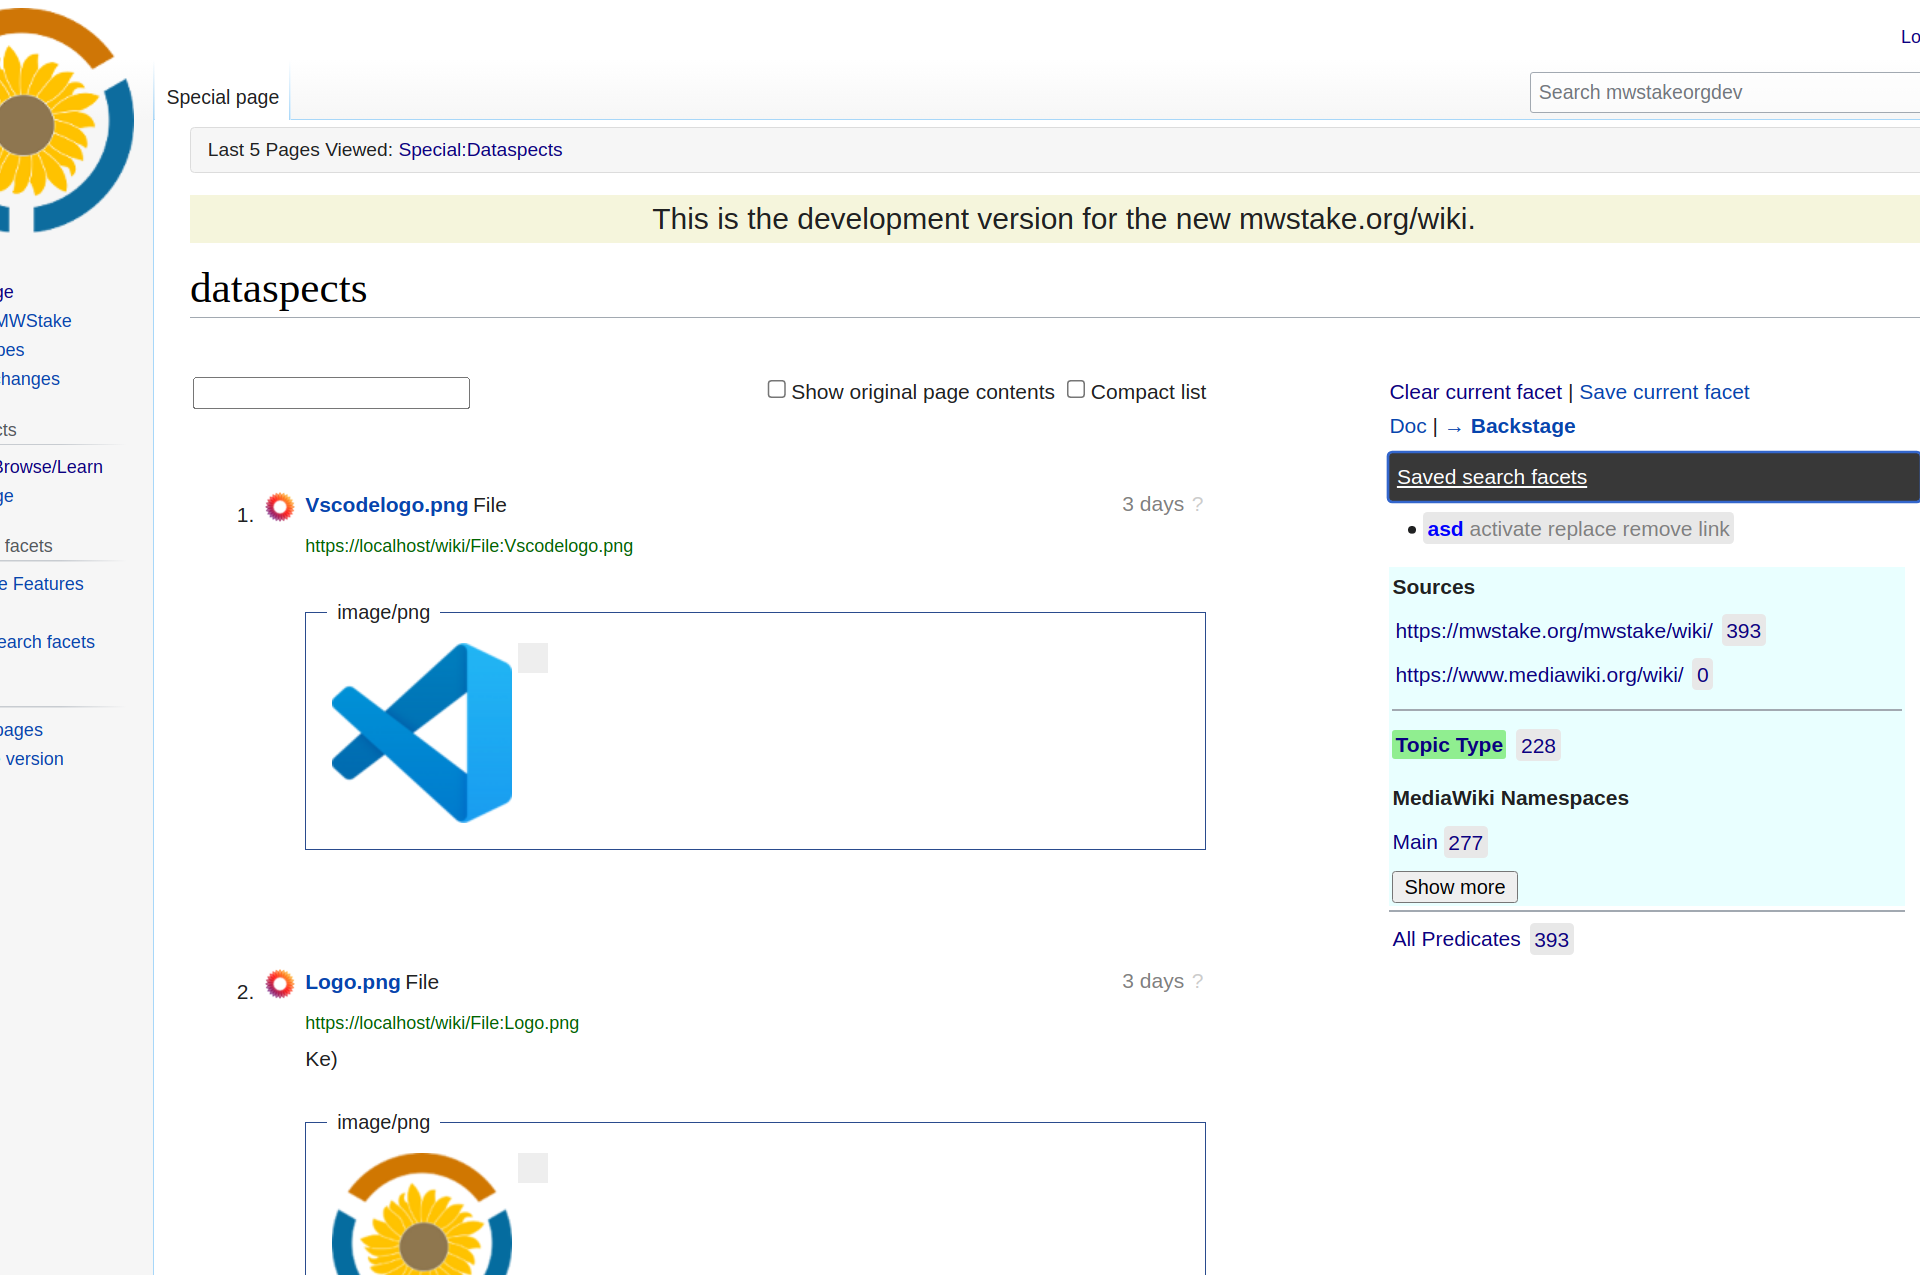
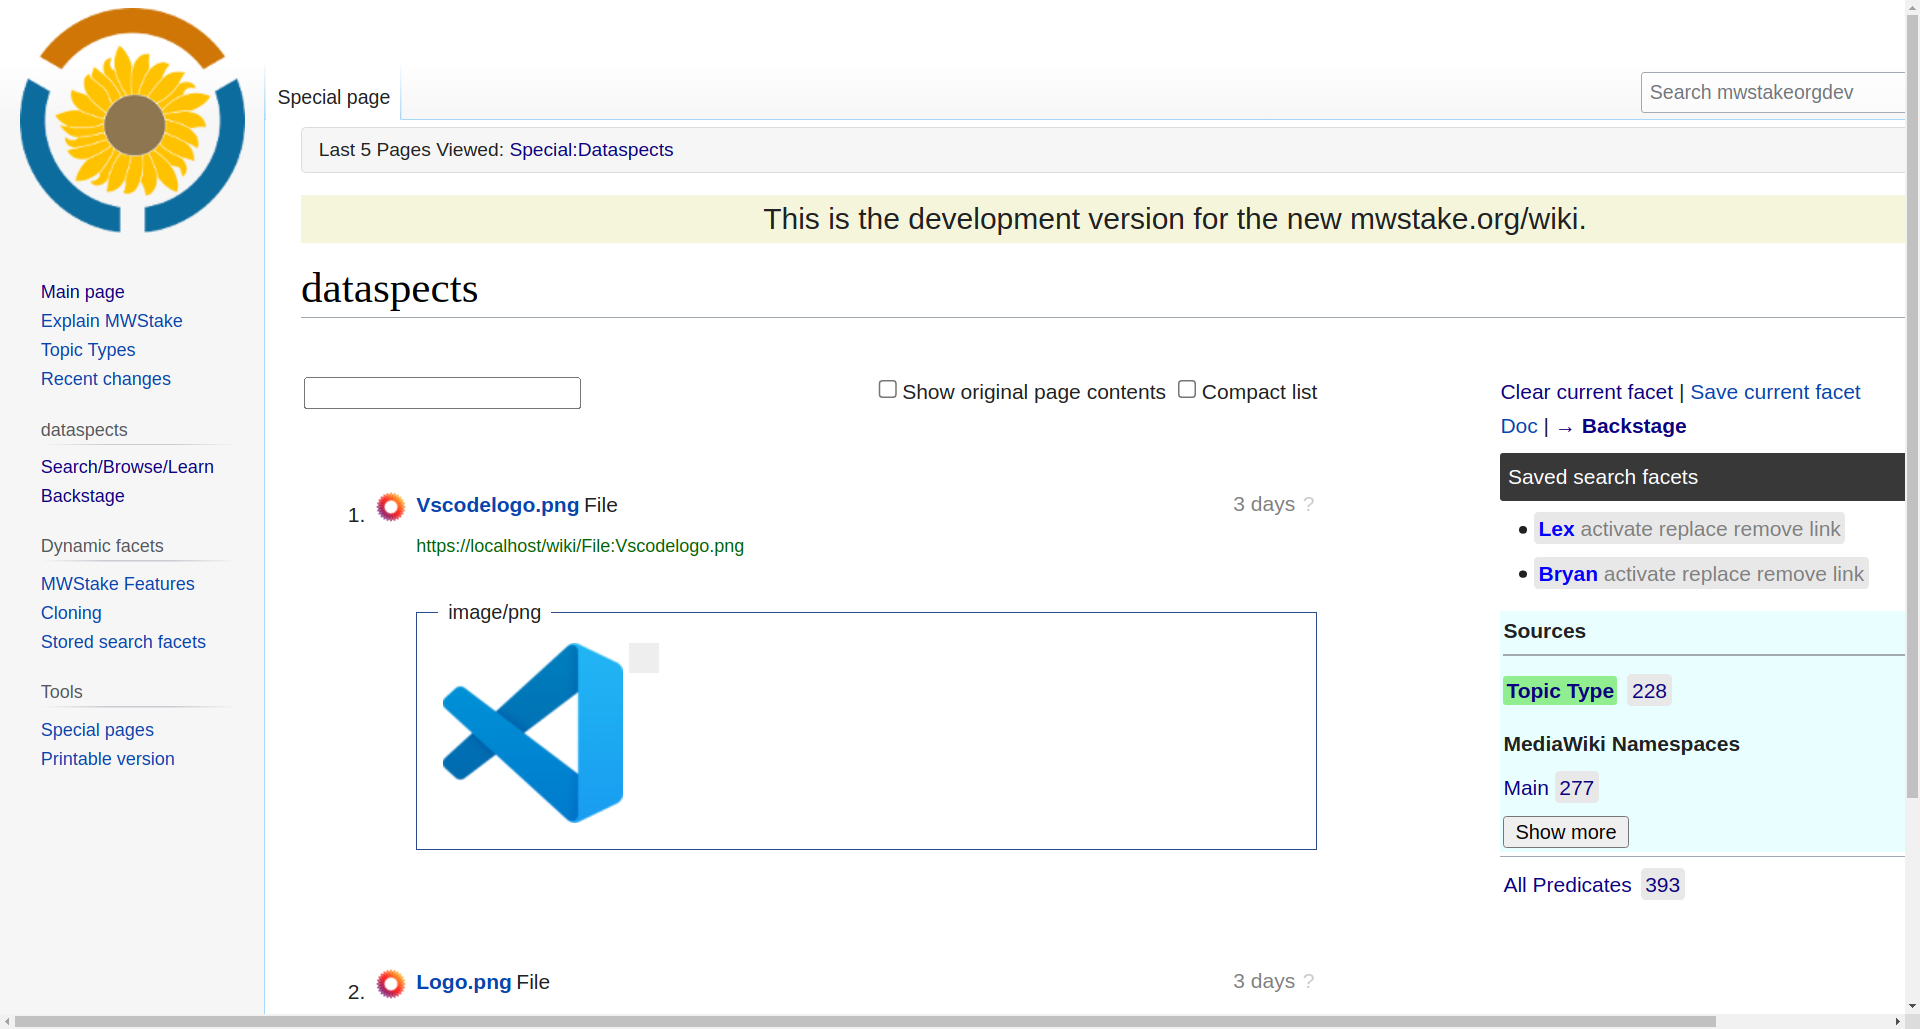
defaultToAuthorizedSources for q URL param

diff --git a/resources/ext.dataspectsSearch/dataspectsSearch.js b/resources/ext.dataspectsSearch/dataspectsSearch.js
@@ -89,6 +89,7 @@ function handleSpecialDataspects() {
       "currentContext",
       JSON.stringify(currentContext)
     );
+    console.log("### stored currentContext in localStorage");
   };
 
   /**
@@ -118,7 +119,9 @@ function handleSpecialDataspects() {
   const setQueryIfQURLParameter = (helper) => {
     const currentQueryString = getUrlParameter("q");
     if (currentQueryString) {
+      console.log("### q query parameter set to " + currentQueryString);
       helper.setQuery(currentQueryString);
+      defaultToAuthorizedSources(helper);
       return true;
     }
     return false;
@@ -155,14 +158,25 @@ function handleSpecialDataspects() {
       mw.config.get("wgDataspectsSearchKey")
     ),
     async searchFunction(helper) {
+      console.log(
+        "### Starting async searchFunction with initialPageLoad = " +
+          initialPageLoad
+      );
       /*
         This code is executed on page load as well as "as-you-type"
       */
       var searchFacet = {};
       if (initialPageLoad) {
-        // IS there a q coming from MW's top right search?
+        console.log("### initialPageLoad");
+        /**
+         * Check for q URL parameter and setQuery if there is one
+         */
         if (!setQueryIfQURLParameter(helper)) {
-          // If there is NOT, then check for f URL parameter and get the corresponding facet:
+          console.log("### no q query parameter");
+          /**
+           * If there is no q URL parameter, then check for
+           * f URL parameter and get the corresponding facet:
+           */
           searchFacet = await checkForFURLParameter();
           if (searchFacet) {
             console.log("Loading search facet " + searchFacet.name);
@@ -176,6 +190,9 @@ function handleSpecialDataspects() {
             );
             console.log("Query is " + helper.state.query);
           } else {
+            /**
+             * If the f-induced facet is not found, then we have to default to defaultToAuthorizedSources
+             */
             defaultToAuthorizedSources(helper); //FIXME: HACK: this confines the FIRST helper to authorized sources. However, unchecking all options expands search across ALL sources!
           }
         }
@@ -183,10 +200,11 @@ function handleSpecialDataspects() {
         storeCurrentContextInLocalStorage(helper, searchFacet);
       }
       initialPageLoad = false;
-
       if (helper.state.disjunctiveFacetsRefinements.ds0__source.length > 0) {
+        console.log("### Next");
         // FXIME!
         searchFacets.typeahead(helper.state.query);
+        console.log("### helper.search()");
         helper.search();
       } else {
         alert("You have to select one or more source(s).");

diff --git a/cypress/e2e/spec.cy.js b/cypress/e2e/spec.cy.js
@@ -24,7 +24,7 @@ describe("dataspects", () => {
     });
   });
 
-  it.only("should search by the 'f' URL parameter", () => {
+  it("should search by the 'f' URL parameter", () => {
     cy.fixture("query-hits-combinations").then((scenario) => {
       cy.visit("/wiki/Special:Dataspects?f=" + scenario[2].searchFacetName);
       cy.get('div.hit[data-cy="' + scenario[2].hitIdInTop5 + '"]').should(
@@ -33,14 +33,14 @@ describe("dataspects", () => {
     });
   });
 
-  it.only("should show the saved search facets", () => {
+  it("should show the saved search facets", () => {
     // cy.mediawiki_login(login);
     cy.visit("/wiki/Special:Dataspects");
     cy.get('[data-cy="showSavedSearchFacetsButton"]').click();
     cy.takeScreenshot("saved-search-facets");
     cy.get("li.savedSearchFacet a").first().click();
   });
-  it.only("should save a new search facet and remove it again", () => {
+  it("should save a new search facet and remove it again", () => {
     // Visit
     cy.mediawiki_login(login);
     const unixTimestamp = Math.floor(Date.now());
